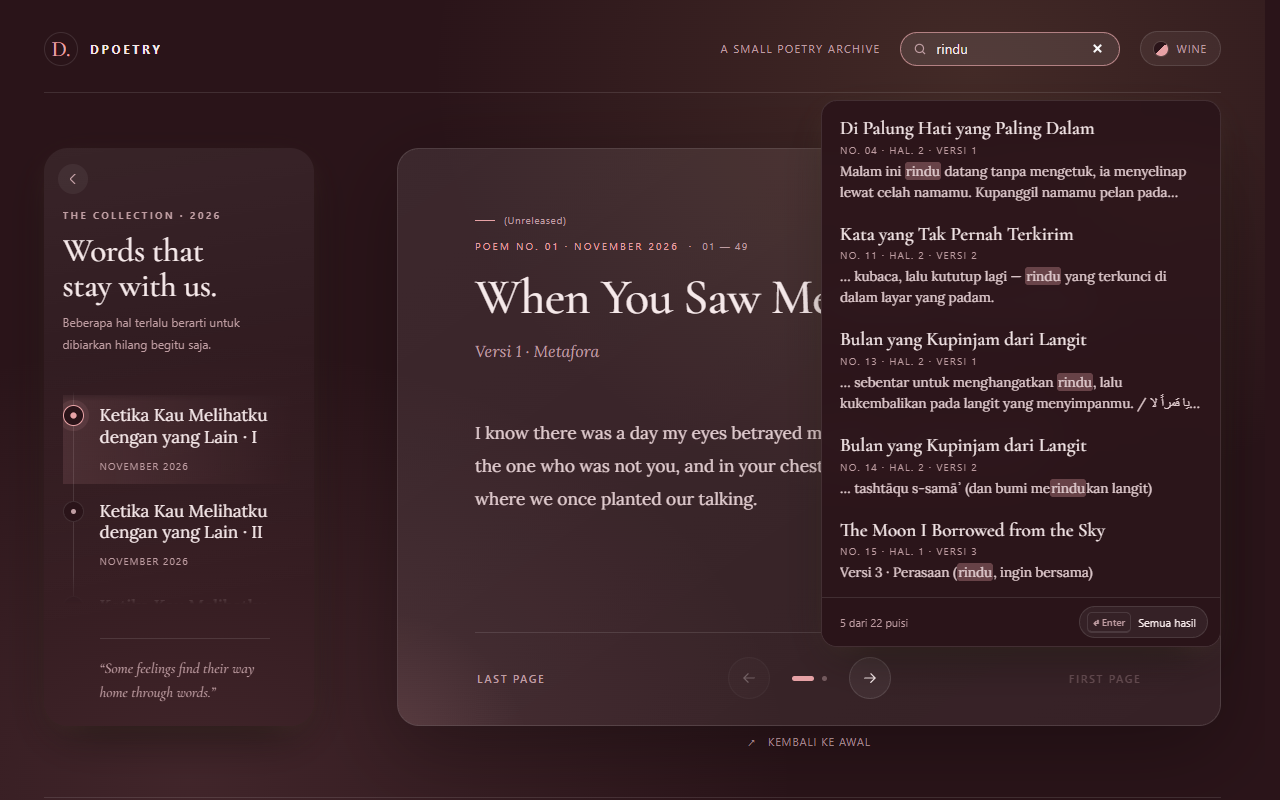
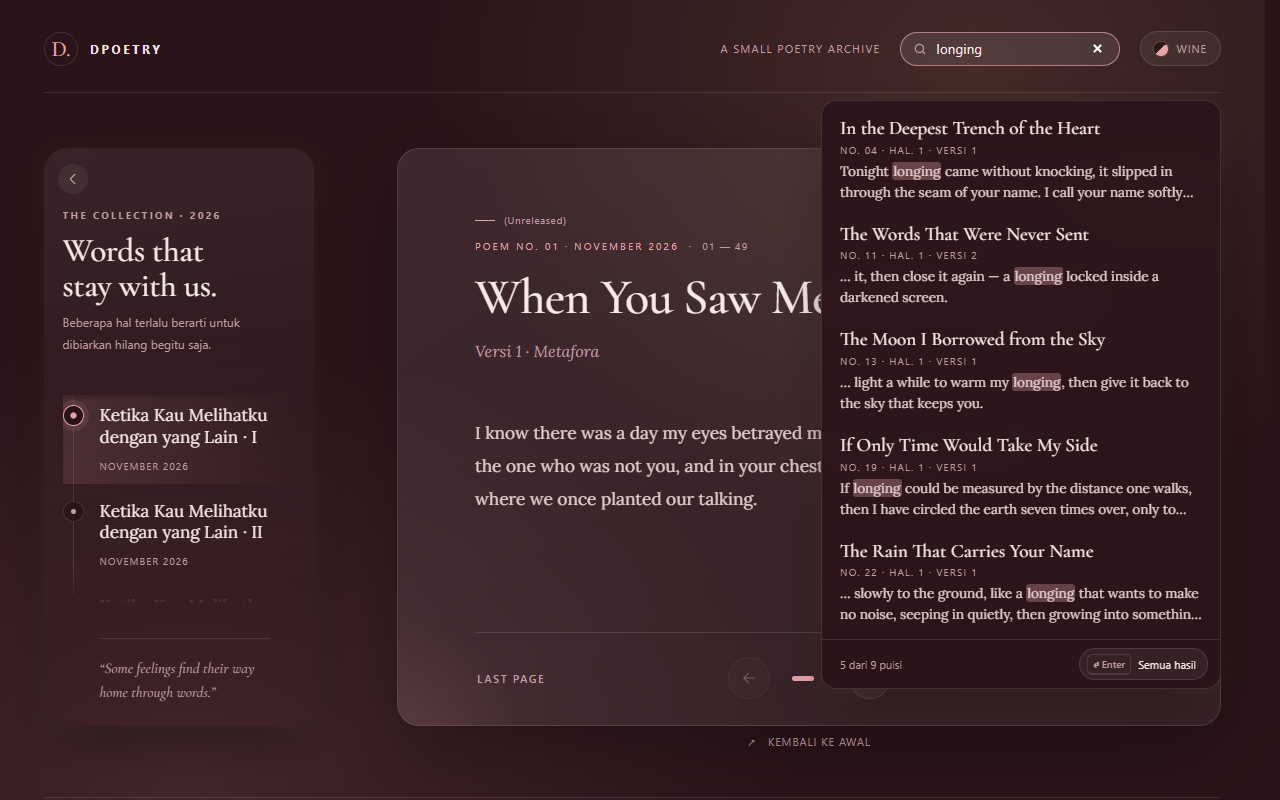
README: English desktop previews first, then Arabic, then phones
- Desktop English page (Midnight) and English word search (Wine) at the top
- Another poem with an Arabic line, then the phone grid
- Themes and phone timeline side by side under the features table

diff --git a/README.md b/README.md
@@ -19,13 +19,28 @@
 > [!NOTE]
 > **Unreleased.** The poems are still being corrected and revised, so text, titles and translations may change before the first release.
 
-## English, Indonesian and a line of Arabic
+## Preview
+
+<p align="center">
+  <img src="docs/images/english-desktop.png" alt="Desktop, Midnight theme: the English page of 'The Moon I Borrowed from the Sky'" width="880"><br>
+  <sub><b>English page</b> · Midnight</sub>
+</p>
+
+<p align="center">
+  <img src="docs/images/feature-search.png" alt="Desktop, Wine theme: word search for 'longing' with five English results, highlighted snippets and an Enter hint for all results" width="880"><br>
+  <sub><b>Word search</b> · top 5 with highlighted snippets, <kbd>Enter</kbd> for all · Wine</sub>
+</p>
+
+### A line of Arabic
 
 Each poem opens with its English page; the Indonesian page follows and often closes with a single line of Arabic, its transliteration and meaning.
 
 <p align="center">
-  <img src="docs/images/arabic-desktop.png" alt="Desktop, Midnight theme: the Indonesian page of 'Bulan yang Kupinjam dari Langit', ending with an Arabic line, its transliteration and meaning" width="880">
+  <img src="docs/images/arabic-desktop.png" alt="Desktop, Midnight theme: the Indonesian page of 'Hujan yang Membawa Namamu', ending with an Arabic line, its transliteration and meaning" width="880"><br>
+  <sub><b>Indonesian page with Arabic</b> · Midnight</sub>
 </p>
+
+### On phones
 
 <table align="center">
   <tr>
@@ -71,21 +86,16 @@ Each poem opens with its English page; the Indonesian page follows and often clo
 
 <table>
   <tr>
-    <td align="center" width="50%">
-      <img src="docs/images/feature-search.png" alt="Word search for 'rindu': five results with highlighted snippets and an Enter hint for all results"><br>
-      <sub><b>Word search</b> · top 5 with highlighted snippets, <kbd>Enter</kbd> for all</sub>
-    </td>
-    <td align="center" width="50%">
+    <td align="center" width="65%">
       <img src="docs/images/feature-themes.png" alt="The theme menu open over the Sepia theme, showing all eight color themes"><br>
       <sub><b>Color themes</b> · shown here in Sepia</sub>
     </td>
+    <td align="center" width="35%">
+      <img src="docs/images/feature-timeline-phone.png" alt="Phone, Sage theme: the floating timeline opened over the poem"><br>
+      <sub><b>Floating timeline</b> on a phone · Sage</sub>
+    </td>
   </tr>
 </table>
-
-<p align="center">
-  <img src="docs/images/feature-timeline-phone.png" alt="Phone, Sage theme: the floating timeline opened over the poem" width="300"><br>
-  <sub><b>Floating timeline</b> on a phone · Sage theme</sub>
-</p>
 
 ## Run it locally
 
